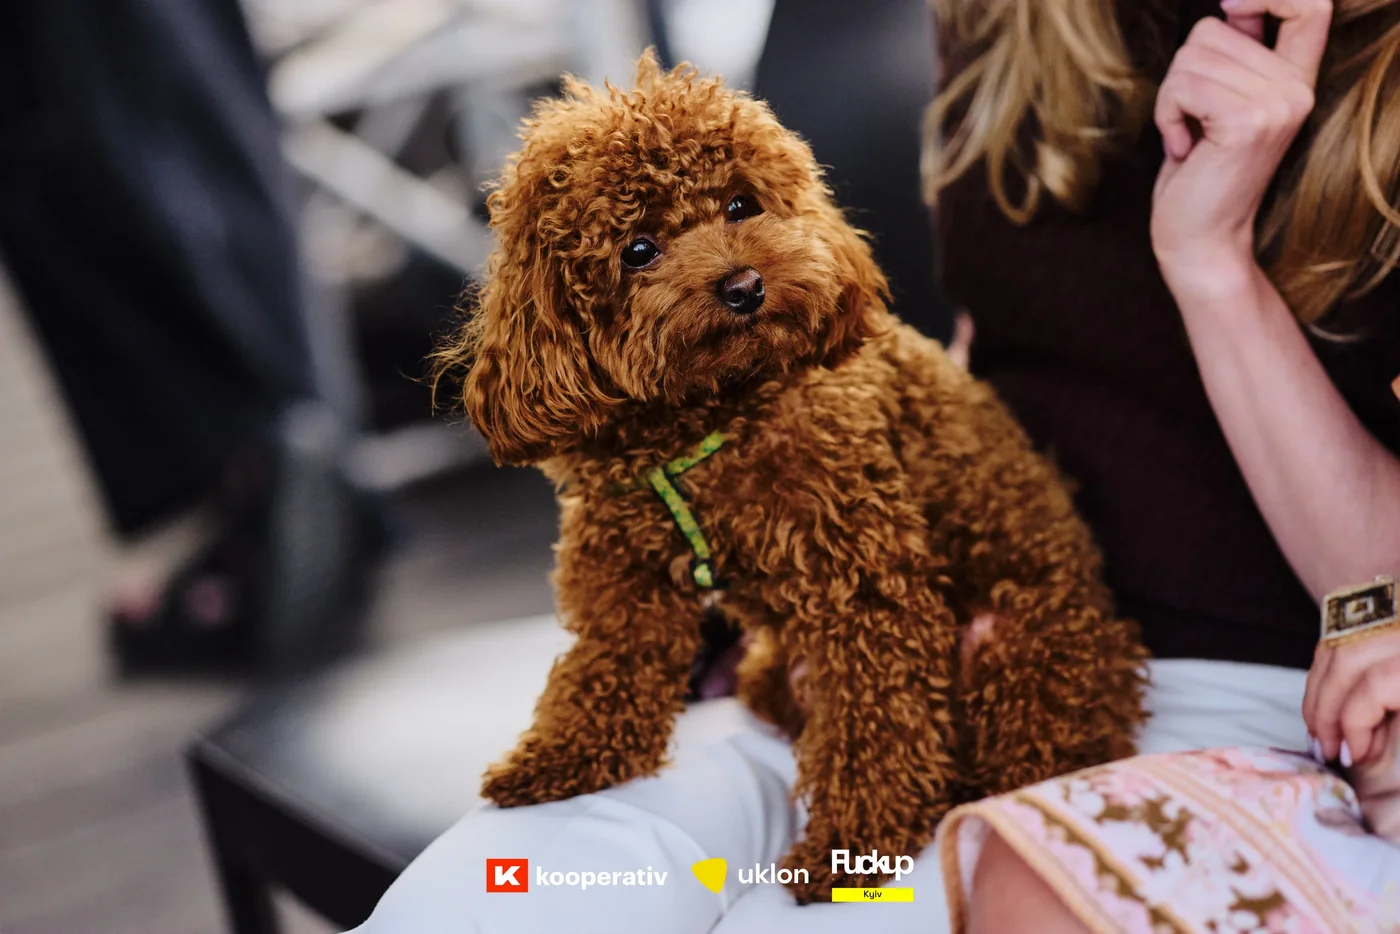
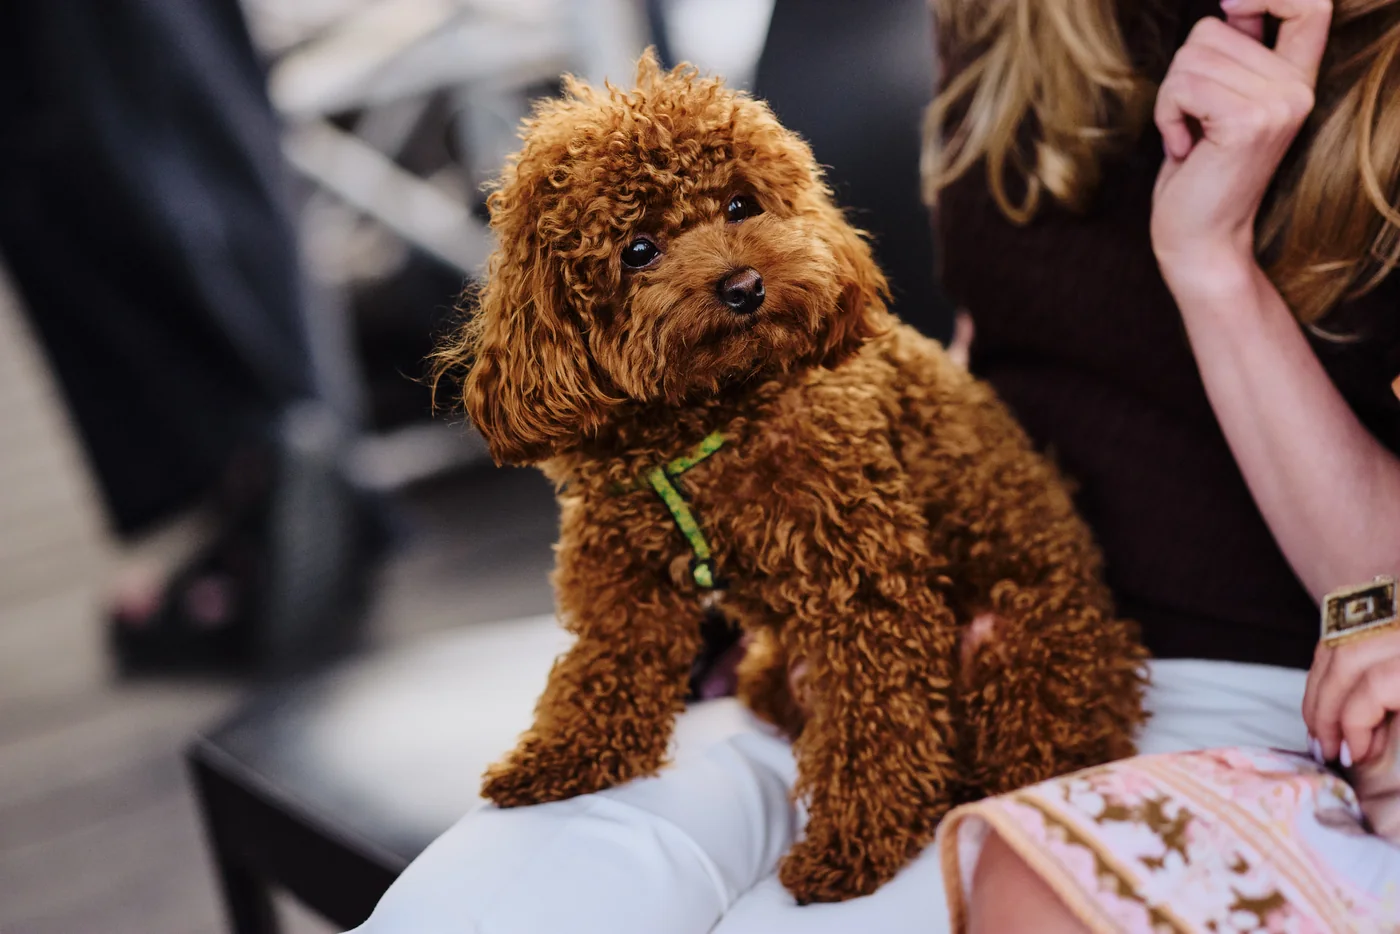
Swap the watermarked frame for the clean original, refresh the set
The Fuckup Nights poodle frame carried the sponsor logo strip; it now
comes from the untouched Vol 12 original. Drop two frames, add four
from the UNICO shoot, and pull the two Chornobyl lesson videos.

Changed region(s): [[0.3379, 0.9004, 0.6757, 0.9936]]

diff --git a/photo/public-events/index.html b/photo/public-events/index.html
@@ -46,7 +46,6 @@
     <img src="/photo/img/public-events/01-public-events-016.webp" alt="Публічні заходи" width="1400" height="933" loading="lazy" decoding="async">
     <img src="/photo/img/public-events/01-public-events-017.webp" alt="Публічні заходи" width="1400" height="934" loading="lazy" decoding="async">
     <img src="/photo/img/public-events/01-public-events-018.webp" alt="Публічні заходи" width="1400" height="934" loading="lazy" decoding="async">
-    <img src="/photo/img/public-events/01-public-events-019.webp" alt="Публічні заходи" width="1400" height="934" loading="lazy" decoding="async">
     <img src="/photo/img/public-events/01-public-events-020.webp" alt="Публічні заходи" width="1400" height="934" loading="lazy" decoding="async">
     <img src="/photo/img/public-events/01-public-events-021.webp" alt="Публічні заходи" width="1400" height="933" loading="lazy" decoding="async">
     <img src="/photo/img/public-events/01-public-events-022.webp" alt="Публічні заходи" width="1400" height="933" loading="lazy" decoding="async">
@@ -55,7 +54,6 @@
     <img src="/photo/img/public-events/01-public-events-025.webp" alt="Публічні заходи" width="1400" height="933" loading="lazy" decoding="async">
     <img src="/photo/img/public-events/01-public-events-027.webp" alt="Публічні заходи" width="1400" height="934" loading="lazy" decoding="async">
     <img src="/photo/img/public-events/01-public-events-028.webp" alt="Публічні заходи" width="934" height="1400" loading="lazy" decoding="async">
-    <img src="/photo/img/public-events/01-public-events-029.webp" alt="Публічні заходи" width="1400" height="934" loading="lazy" decoding="async">
     <img src="/photo/img/public-events/01-public-events-030.webp" alt="Публічні заходи" width="1400" height="934" loading="lazy" decoding="async">
     <img src="/photo/img/public-events/01-public-events-033.webp" alt="Публічні заходи" width="1400" height="934" loading="lazy" decoding="async">
     <img src="/photo/img/public-events/01-public-events-034.webp" alt="Публічні заходи" width="1400" height="933" loading="lazy" decoding="async">
@@ -76,6 +74,10 @@
     <img src="/photo/img/public-events/01-public-events-050.webp" alt="Публічні заходи" width="1399" height="933" loading="lazy" decoding="async">
     <img src="/photo/img/public-events/01-public-events-051.webp" alt="Публічні заходи" width="1397" height="934" loading="lazy" decoding="async">
     <img src="/photo/img/public-events/01-public-events-052.webp" alt="Публічні заходи" width="1396" height="933" loading="lazy" decoding="async">
+    <img src="/photo/img/public-events/01-public-events-053.webp" alt="Публічні заходи" width="1400" height="934" loading="lazy" decoding="async">
+    <img src="/photo/img/public-events/01-public-events-054.webp" alt="Публічні заходи" width="1400" height="934" loading="lazy" decoding="async">
+    <img src="/photo/img/public-events/01-public-events-055.webp" alt="Публічні заходи" width="1400" height="934" loading="lazy" decoding="async">
+    <img src="/photo/img/public-events/01-public-events-056.webp" alt="Публічні заходи" width="1400" height="934" loading="lazy" decoding="async">
 </section>
 <hr class="rule">
 <footer class="wrap">

diff --git a/video/documentary/index.html b/video/documentary/index.html
@@ -48,22 +48,6 @@
     <h2 class="vt" data-en="Leadership and Resilience, Fall 2025" data-ua="Leadership and Resilience, Fall 2025">Leadership and Resilience, Fall 2025</h2>
   </article>
   <article class="v">
-    <button class="fac" type="button" data-pl="yt" data-id="u2_HJUj8VE4" aria-label="УРОК ПАМ‘ЯТІ ЧОРНОБИЛЯ: 1 КЛАС">
-      <img src="https://i.ytimg.com/vi/u2_HJUj8VE4/maxresdefault.jpg" alt="" loading="lazy" decoding="async" width="1280" height="720">
-      <span class="pl"><i></i></span>
-    </button>
-    <span class="plat">YouTube</span>
-    <h2 class="vt" data-en="Chornobyl memory lesson: grade 1" data-ua="УРОК ПАМ‘ЯТІ ЧОРНОБИЛЯ: 1 КЛАС">Chornobyl memory lesson: grade 1</h2>
-  </article>
-  <article class="v">
-    <button class="fac" type="button" data-pl="yt" data-id="anzHHi4OSJQ" aria-label="УРОК ПАМ‘ЯТІ ЧОРНОБИЛЯ: 3 КЛАС">
-      <img src="https://i.ytimg.com/vi/anzHHi4OSJQ/maxresdefault.jpg" alt="" loading="lazy" decoding="async" width="1280" height="720">
-      <span class="pl"><i></i></span>
-    </button>
-    <span class="plat">YouTube</span>
-    <h2 class="vt" data-en="Chornobyl memory lesson: grade 3" data-ua="УРОК ПАМ‘ЯТІ ЧОРНОБИЛЯ: 3 КЛАС">Chornobyl memory lesson: grade 3</h2>
-  </article>
-  <article class="v">
     <button class="fac" type="button" data-pl="yt" data-id="m3JY9PaAo9s" aria-label="ЗВУКИ ЧОРНОБИЛЯ: музичний проєкт до роковин аварії на ЧАЕС (SoundsOfChernobyl)">
       <img src="https://i.ytimg.com/vi/m3JY9PaAo9s/maxresdefault.jpg" alt="" loading="lazy" decoding="async" width="1280" height="720">
       <span class="pl"><i></i></span>
